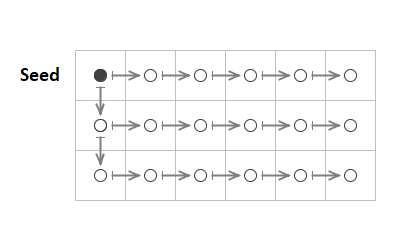
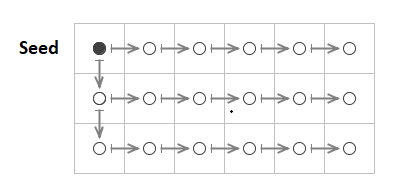
editorial additions

diff --git a/docs/notes/GridfourDataCompressionAlgorithms.html b/docs/notes/GridfourDataCompressionAlgorithms.html
@@ -7,66 +7,8 @@
 	<title>Gridfour Data Compression Algorithms</title>
 	<link rel="stylesheet" href="css/text.css" >
 	<link rel="stylesheet" href="css/layout.css" >
-	<style>
-		 @media (min-width: 768px) {
-			#sidebar {
-				position: fixed;
-				left: 0;
-				top: 0;
-				width: 250px;
-				height: 100vh;
-				background-color: #f5f5f5;
-				border-right: 1px solid #ddd;
-				overflow-y: auto;
-				padding: 10px;
-				z-index: 100;
-			}
-			
-			#notescontainer {
-				margin-left: 275px;
-			}
-		 
-		  #sidebar nav ul {
-			list-style: none;
-			padding: 0;
-		  }
-
-		  #sidebar nav ul li {
-			margin-left: 10px;
-			margin-bottom: 5px;
-		  }
-
-		  #sidebar nav a {
-			text-decoration: none;
-			color: #333;
-			display: block;
-			padding: 1px 5px;
-			border-radius: 4px;
-		  }
-
-		  #sidebar nav a:hover {
-			background-color: #e0e0e0;
-		  }
-
-		  #sidebar nav a.active {
-			background-color: #0066cc;
-			color: white;
-		  }
-
-		  /* Nested list indentation */
-		  #sidebar nav ul ul {
-			  margin: 0px 0px 0px 0px;
-			padding: 0px 0px 0px 0px;
-			
-		  }
-		}
-
-		@media (max-width: 768px) {
-		  #sidebar {
-			  display: none;
-		  }
-		}
-		</style>
+	<link rel="stylesheet" href="css/sidebar.css" >
+	 
     </head>
 
 
@@ -379,9 +321,11 @@
 			computation uses the vertically adjacent cell rather than the horizontal.</p>
 
 		    <figure>
-			<p><img class="imageCentered" src="images/GVRS_Compression/CompressionPatternDifferencing.png"
-				alt="Pattern for Differencing-Model Predictive Resolution Transform"></p>
-			<figcaption>Figure 4. &ndash; Traversal pattern for Gridfour differencing predictor</figcaption>
+			<p><img class="imageCentered" 
+			    src="images/GVRS_Compression/CompressionPatternDifferencing.png"
+				width="400" height="190"
+				alt="Pattern for differencing-model predictive resolution transform"></p>
+			<figcaption>Figure 4 &ndash; Traversal pattern for Gridfour differencing predictor</figcaption>
 		    </figure>
 
 		    <p>It is worth repeating that the use of the differencing predictor for raster data is not unique to the Gridfour project.

diff --git a/docs/notes/css/text.css b/docs/notes/css/text.css
@@ -271,10 +271,12 @@ tr:hover {
 figure   {
   display: block;
   justify-content: center;
+  text-align: center;
 }
 
 figcaption {
 	text-align: left;
+	display: inline-block;
 }
 
 
